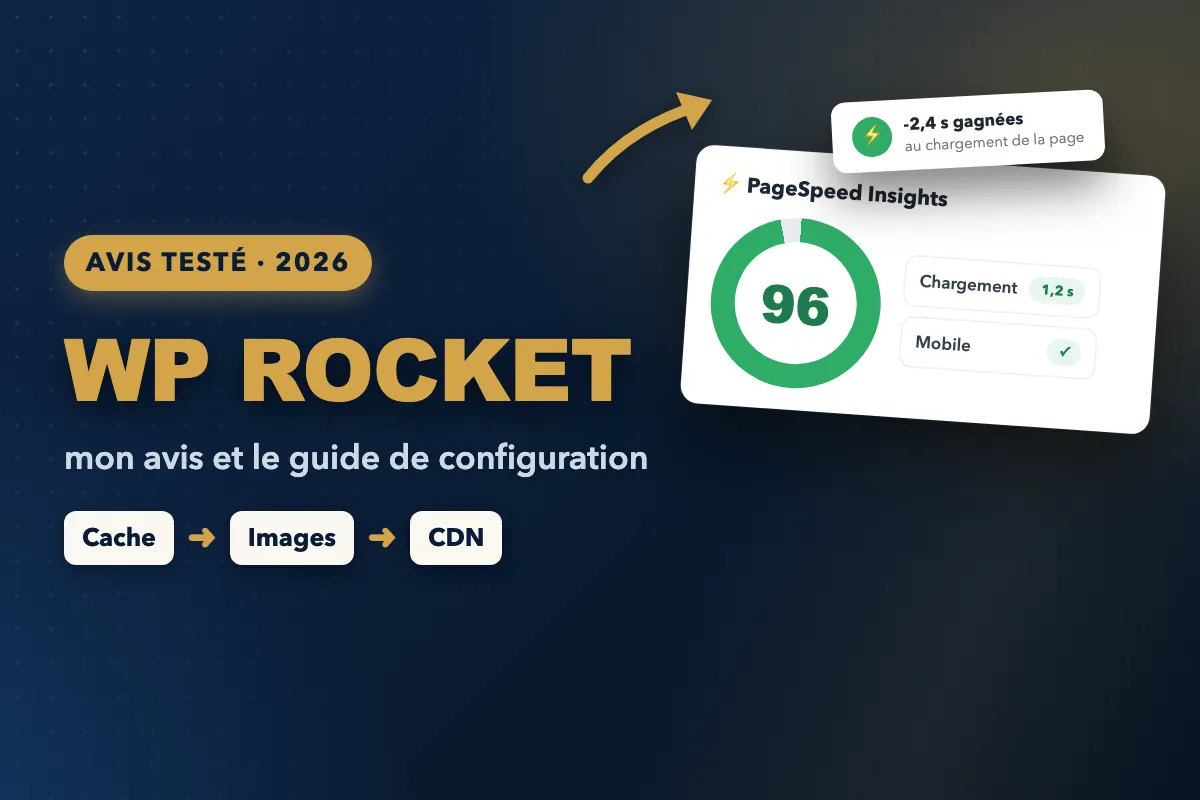
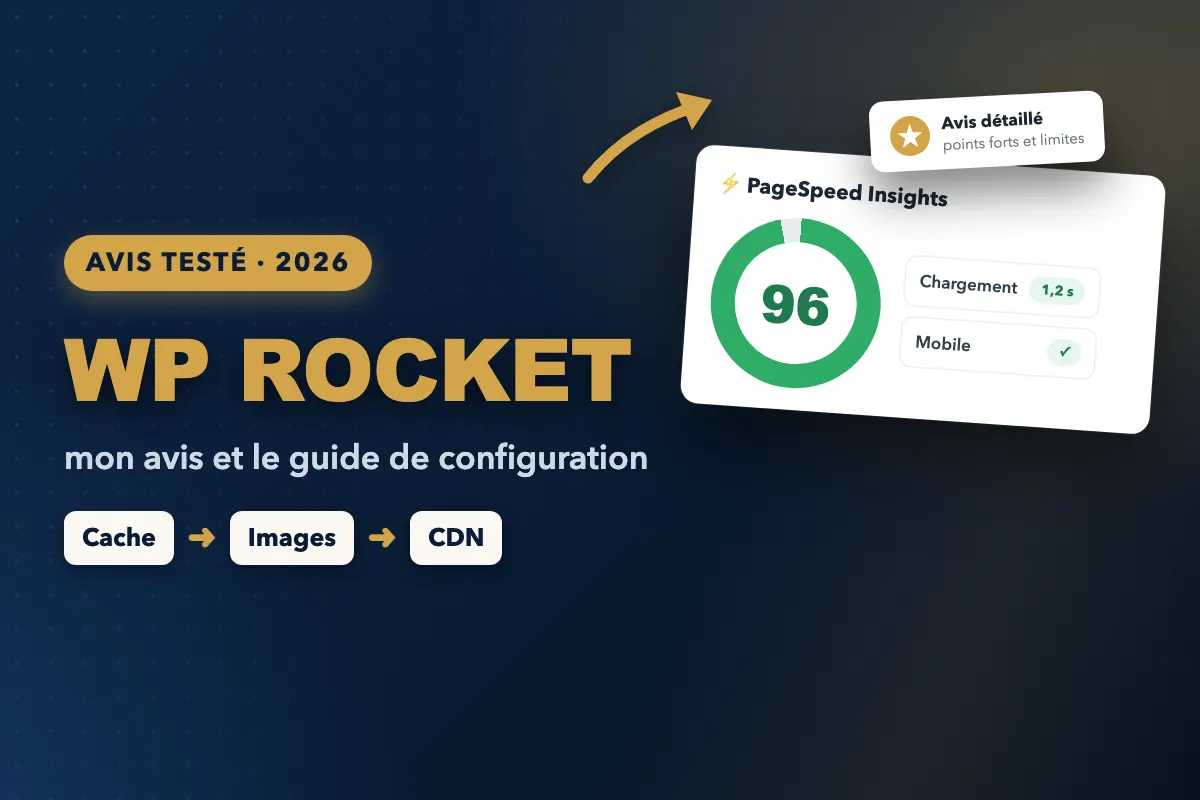
Vignettes : notification neutre sur les articles d'avis
Les notifications décoratives des presets annoncent un résultat chiffré
(« -2,4 s gagnées », « Position nº1 »). Sur un article d'avis, ça se lit comme
une mesure relevée alors qu'on n'en a aucune. Les titres en « avis / test /
vaut-il » reçoivent donc une carte sans chiffre : « Avis détaillé — points
forts et limites ». Vignette WP Rocket régénérée.

Changed region(s): [[0.6783, 0.125, 0.8942, 0.2812]]

diff --git a/automation/generate-cover.py b/automation/generate-cover.py
@@ -88,10 +88,19 @@ PRESET_KEYWORDS = [
     (r"rgpd|cookie|mentions légales", "shield"),
 ]
 
+# Article d'avis / de test : sert au badge ET à neutraliser la notification.
+REVIEW_PAT = r"\bavis\b|\btest\b|vaut-il"
+
+# Carte de notification pour ces articles : aucun chiffre, aucune promesse de
+# résultat. Les notifications des presets annoncent souvent une performance
+# (« -2,4 s gagnées », « Position nº1 ») : décoratif ailleurs, mais sur un avis
+# ça se lit comme une mesure relevée alors qu'on n'en a aucune.
+REVIEW_NOTIF = ("gold", "★", "Avis détaillé", "points forts et limites")
+
 BADGE_KEYWORDS = [
     (r"pirat", "URGENCE"),
     (r"comparatif|meilleur|classement", "COMPARATIF"),
-    (r"\bavis\b|\btest\b|vaut-il", "AVIS TESTÉ"),
+    (REVIEW_PAT, "AVIS TESTÉ"),
     (r"sécuris|securis", "SÉCURITÉ"),
     (r"vitesse|accélér|acceler|performance", "PERFORMANCE"),
     (r"prix|coûte|coute|budget|tarif", "BUDGET"),
@@ -218,12 +227,14 @@ def auto_config(title: str, category: str) -> dict:
     if not 8 <= len(sub) <= 44:
         sub = preset["sub"]
 
+    notif = REVIEW_NOTIF if re.search(REVIEW_PAT, low) else tuple(preset["notif"])
+
     return {
         "badge": f"{badge_label} · {year}",
         "title": lines(*title_lines),
         "sub": sub,
         "steps": steps(*preset["steps"]),
-        "notif": tuple(preset["notif"]),
+        "notif": notif,
         "visual": visual,
     }
 
